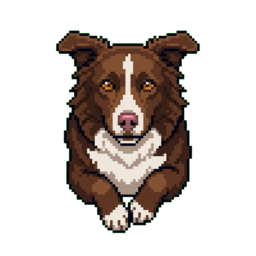
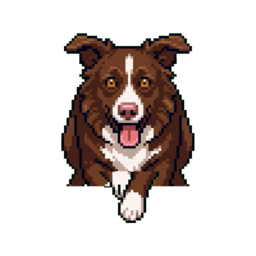
Zeppelin: 8-way running + diagonals, hearts reaction, idle-load; Tetris line-clear flash
- Zeppelin now runs in 8 directions (added NE/NW/SE/SW diagonals; left twins are flipped), and the toward-viewer frames are consistent (frame B generated as an edit of frame A so the face matches)
- Giving him a treat now shows a love-heart-eyes sprite
- Zeppelin is code-split and mounted on requestIdleCallback, and his sprite is fetchPriority=low, so he never blocks initial page load
- Tetris: completed lines now flash white before clearing (freeze → flash → remove)

Changed region(s): [[0.2188, 0.0938, 0.7812, 0.9375]]

diff --git a/components/os/apps/tetris-app.tsx b/components/os/apps/tetris-app.tsx
@@ -17,8 +17,8 @@ type Board = Cell[][];
 type Piece = { type: PieceType; m: Matrix; x: number; y: number };
 type Status = 'playing' | 'paused' | 'over';
 type Mode = 'normal' | 'angel' | 'evil';
-type Game = { board: Board; piece: Piece; next: PieceType; score: number; lines: number; level: number; status: Status; mode: Mode };
-type Action = 'left' | 'right' | 'rotate' | 'soft' | 'hard' | 'tick' | 'togglePause' | 'reset' | 'modeNormal' | 'modeAngel' | 'modeEvil';
+type Game = { board: Board; piece: Piece; next: PieceType; score: number; lines: number; level: number; status: Status; mode: Mode; clearing: number[] };
+type Action = 'left' | 'right' | 'rotate' | 'soft' | 'hard' | 'tick' | 'togglePause' | 'reset' | 'modeNormal' | 'modeAngel' | 'modeEvil' | 'finishClear';
 
 const SHAPES: Record<PieceType, Matrix> = {
   I: [[0, 0, 0, 0], [1, 1, 1, 1], [0, 0, 0, 0], [0, 0, 0, 0]],
@@ -70,6 +70,13 @@ function clearLines(board: Board): { board: Board; cleared: number } {
   const fresh = Array.from({ length: cleared }, () => Array<Cell>(COLS).fill(null));
   return { board: [...fresh, ...kept], cleared };
 }
+
+/** Indices of fully-filled rows — the ones about to clear (used for the flash). */
+const fullRows = (board: Board): number[] => {
+  const rows: number[] = [];
+  for (let r = 0; r < ROWS; r++) if (board[r].every((c) => c !== null)) rows.push(r);
+  return rows;
+};
 
 // ---- Evil / Angel piece selection ------------------------------------------
 // Rate a board for the player (higher = better): reward cleared lines, punish
@@ -142,25 +149,39 @@ function choosePiece(board: Board, mode: Mode): PieceType {
 function lock(g: Game): Game {
   const board = g.board.map((r) => r.slice());
   for (const [r, c] of cellsOf(g.piece.m, g.piece.x, g.piece.y)) if (r >= 0) board[r][c] = COLORS[g.piece.type];
-  const { board: cleared, cleared: n } = clearLines(board);
+  const rows = fullRows(board);
+  // If lines completed, freeze on them so they can flash; finishClear() then removes them.
+  if (rows.length > 0) return { ...g, board, clearing: rows };
+  const piece = spawn(g.next);
+  const over = collides(board, piece.m, piece.x, piece.y);
+  return { ...g, board, piece, next: choosePiece(board, g.mode), status: over ? 'over' : 'playing' };
+}
+
+function finishClear(g: Game): Game {
+  if (g.clearing.length === 0) return g;
+  const kept = g.board.filter((_, r) => !g.clearing.includes(r));
+  const n = g.clearing.length;
+  const fresh = Array.from({ length: n }, () => Array<Cell>(COLS).fill(null));
+  const board = [...fresh, ...kept];
   const lines = g.lines + n;
   const piece = spawn(g.next);
-  const over = collides(cleared, piece.m, piece.x, piece.y);
+  const over = collides(board, piece.m, piece.x, piece.y);
   return {
-    board: cleared,
+    ...g,
+    board,
     piece,
-    next: choosePiece(cleared, g.mode),
+    next: choosePiece(board, g.mode),
     score: g.score + LINE_SCORE[n] * g.level,
     lines,
     level: Math.floor(lines / 10) + 1,
     status: over ? 'over' : 'playing',
-    mode: g.mode,
+    clearing: [],
   };
 }
 
 function init(mode: Mode = 'normal'): Game {
   const board = emptyBoard();
-  return { board, piece: spawn(choosePiece(board, mode)), next: choosePiece(board, mode), score: 0, lines: 0, level: 1, status: 'playing', mode };
+  return { board, piece: spawn(choosePiece(board, mode)), next: choosePiece(board, mode), score: 0, lines: 0, level: 1, status: 'playing', mode, clearing: [] };
 }
 
 function step(g: Game, a: Action): Game {
@@ -168,12 +189,13 @@ function step(g: Game, a: Action): Game {
   if (a === 'modeNormal') return init('normal');
   if (a === 'modeAngel') return init('angel');
   if (a === 'modeEvil') return init('evil');
+  if (a === 'finishClear') return finishClear(g);
   if (a === 'togglePause') {
     if (g.status === 'playing') return { ...g, status: 'paused' };
     if (g.status === 'paused') return { ...g, status: 'playing' };
     return g;
   }
-  if (g.status !== 'playing') return g;
+  if (g.status !== 'playing' || g.clearing.length > 0) return g;
   const { board, piece } = g;
   const { m, x, y } = piece;
   switch (a) {
@@ -200,15 +222,16 @@ function step(g: Game, a: Action): Game {
   }
 }
 
-function Block({ color, size = CELL, ghost = false }: { color: string | null; size?: number; ghost?: boolean }) {
+function Block({ color, size = CELL, ghost = false, flash = false }: { color: string | null; size?: number; ghost?: boolean; flash?: boolean }) {
   return (
     <div
+      className={flash ? 'tetris-flash' : undefined}
       style={{
         width: size,
         height: size,
         borderRadius: 3,
-        background: ghost ? 'transparent' : (color ?? 'rgba(255,255,255,0.035)'),
-        boxShadow: color && !ghost ? 'inset 0 0 0 1px rgba(255,255,255,0.25), inset 1px 1px 2px rgba(255,255,255,0.4)' : undefined,
+        background: flash ? '#ffffff' : ghost ? 'transparent' : (color ?? 'rgba(255,255,255,0.035)'),
+        boxShadow: color && !ghost && !flash ? 'inset 0 0 0 1px rgba(255,255,255,0.25), inset 1px 1px 2px rgba(255,255,255,0.4)' : undefined,
         border: ghost && color ? `2px solid ${color}66` : undefined,
       }}
     />
@@ -235,11 +258,18 @@ export function TetrisApp({ win }: AppContentProps) {
 
   // Gravity — only runs while focused & playing, so it pauses when you switch windows.
   useEffect(() => {
-    if (g.status !== 'playing' || !focused) return;
+    if (g.status !== 'playing' || !focused || g.clearing.length > 0) return;
     const speed = Math.max(90, 800 - (g.level - 1) * 65);
     const id = setInterval(() => dispatch('tick'), speed);
     return () => clearInterval(id);
-  }, [g.status, g.level, focused]);
+  }, [g.status, g.level, focused, g.clearing.length]);
+
+  // Flash completed lines briefly, then remove them.
+  useEffect(() => {
+    if (g.clearing.length === 0) return;
+    const id = setTimeout(() => dispatch('finishClear'), 280);
+    return () => clearTimeout(id);
+  }, [g.clearing]);
 
   // Keyboard — active only while this window is focused.
   useEffect(() => {
@@ -270,13 +300,15 @@ export function TetrisApp({ win }: AppContentProps) {
   // Build the display grid: locked board + ghost + active piece.
   const view: Cell[][] = g.board.map((r) => r.slice());
   const ghostCells: [number, number][] = [];
-  if (g.status !== 'over') {
+  const settling = g.clearing.length > 0;
+  if (g.status !== 'over' && !settling) {
     let gy = g.piece.y;
     while (!collides(g.board, g.piece.m, g.piece.x, gy + 1)) gy++;
     for (const [r, c] of cellsOf(g.piece.m, g.piece.x, gy)) if (r >= 0 && !view[r][c]) ghostCells.push([r, c]);
   }
   const ghostSet = new Set(ghostCells.map(([r, c]) => r * COLS + c));
-  for (const [r, c] of cellsOf(g.piece.m, g.piece.x, g.piece.y)) if (r >= 0) view[r][c] = COLORS[g.piece.type];
+  if (!settling) for (const [r, c] of cellsOf(g.piece.m, g.piece.x, g.piece.y)) if (r >= 0) view[r][c] = COLORS[g.piece.type];
+  const clearingSet = new Set(g.clearing);
 
   const overlay =
     g.status === 'over'
@@ -297,7 +329,7 @@ export function TetrisApp({ win }: AppContentProps) {
               const isGhost = !color && ghostSet.has(r * COLS + c);
               return (
                 <div key={`${r}-${c}`} className='p-px'>
-                  <Block color={isGhost ? COLORS[g.piece.type] : color} ghost={isGhost} />
+                  <Block color={isGhost ? COLORS[g.piece.type] : color} ghost={isGhost} flash={clearingSet.has(r)} />
                 </div>
               );
             }),

diff --git a/components/os/zeppelin.tsx b/components/os/zeppelin.tsx
@@ -4,8 +4,8 @@ import { MENUBAR_H } from '@/lib/os/constants';
 import { cn } from '@/lib/utils';
 import { useCallback, useEffect, useRef, useState } from 'react';
 
-type Mode = 'enter' | 'idle' | 'running' | 'chat' | 'sleeping' | 'following' | 'shake' | 'excited';
-type Dir = 'side' | 'front' | 'back';
+type Mode = 'enter' | 'idle' | 'running' | 'chat' | 'sleeping' | 'following' | 'shake' | 'excited' | 'loved';
+type Dir = 'side' | 'front' | 'back' | 'se' | 'ne';
 type Msg = { from: 'you' | 'zep'; text: string };
 
 const S = {
@@ -16,9 +16,14 @@ const S = {
   frontB: '/zeppelin/front-b.png',
   backA: '/zeppelin/back-a.png',
   backB: '/zeppelin/back-b.png',
+  seA: '/zeppelin/se-a.png',
+  seB: '/zeppelin/se-b.png',
+  neA: '/zeppelin/ne-a.png',
+  neB: '/zeppelin/ne-b.png',
   happy: '/zeppelin/happy.png',
   shake: '/zeppelin/shake.png',
   excited: '/zeppelin/excited.png',
+  loved: '/zeppelin/loved.png',
   sleep: '/zeppelin/sleep.png',
 };
 const SIZE = 104;
@@ -67,13 +72,33 @@ export function Zeppelin() {
     };
   }, []);
 
+  // Pick one of 8 directions (E/SE/S/SW/W/NW/N/NE). Right-facing sets flip for their left twins.
   const aimSprite = (dx: number, dy: number) => {
-    if (Math.abs(dx) > Math.abs(dy)) {
-      setDir('side');
-      setFacing(dx < 0 ? -1 : 1);
+    const deg = ((Math.atan2(dy, dx) * 180) / Math.PI + 360) % 360; // 0=E, 90=S(down), 270=N(up)
+    let set: Dir = 'side';
+    let fl = 1;
+    if (deg >= 337.5 || deg < 22.5) {
+      set = 'side'; // E
+    } else if (deg < 67.5) {
+      set = 'se'; // SE
+    } else if (deg < 112.5) {
+      set = 'front'; // S
+    } else if (deg < 157.5) {
+      set = 'se';
+      fl = -1; // SW
+    } else if (deg < 202.5) {
+      set = 'side';
+      fl = -1; // W
+    } else if (deg < 247.5) {
+      set = 'ne';
+      fl = -1; // NW
+    } else if (deg < 292.5) {
+      set = 'back'; // N
     } else {
-      setDir(dy > 0 ? 'front' : 'back');
+      set = 'ne'; // NE
     }
+    setDir(set);
+    setFacing(fl);
   };
 
   // Idle behaviour: scamper somewhere, or have a little thought. (Off while a treat is out.)
@@ -167,22 +192,31 @@ export function Zeppelin() {
   const sprite = (() => {
     if (mode === 'sleeping') return S.sleep;
     if (mode === 'shake') return S.shake;
+    if (mode === 'loved') return S.loved;
     if (mode === 'excited') return S.excited;
     if (mode === 'chat' || mode === 'enter') return S.happy;
     if (mode === 'running' || mode === 'following') {
-      const set = dir === 'front' ? [S.frontA, S.frontB] : dir === 'back' ? [S.backA, S.backB] : [S.runA, S.runB];
+      const sets: Record<Dir, [string, string]> = {
+        side: [S.runA, S.runB],
+        front: [S.frontA, S.frontB],
+        back: [S.backA, S.backB],
+        se: [S.seA, S.seB],
+        ne: [S.neA, S.neB],
+      };
+      const set = sets[dir];
       return frame ? set[1] : set[0];
     }
     return S.sit;
   })();
-  const flip = (mode === 'running' || mode === 'following') && dir === 'side' ? facing : 1;
+  const flip = mode === 'running' || mode === 'following' ? facing : 1;
 
   const giveTreat = () => {
     setTreat(false);
-    setMode('excited');
     setBubble('woof woof! 🦴❤️');
-    setTimeout(() => setBubble(null), 1800);
-    setTimeout(() => setMode('idle'), 1600);
+    setMode('excited');
+    setTimeout(() => setMode('loved'), 550);
+    setTimeout(() => setBubble(null), 2300);
+    setTimeout(() => setMode('idle'), 2300);
   };
 
   const startTreat = () => {
@@ -317,6 +351,7 @@ export function Zeppelin() {
             width={SIZE}
             height={SIZE}
             draggable={false}
+            fetchPriority='low'
             style={{ transform: `scaleX(${flip})`, imageRendering: 'pixelated' }}
             className='h-full w-full object-contain drop-shadow-[0_5px_3px_rgba(0,0,0,0.28)]'
           />

diff --git a/components/os/desktop.tsx b/components/os/desktop.tsx
@@ -5,13 +5,17 @@ import { type Wallpaper, usePrefs, wallpaperClass } from '@/lib/os/prefs';
 import { parseRoute, pathForWindow } from '@/lib/os/routes';
 import { useWindowStore } from '@/lib/os/store';
 import { cn } from '@/lib/utils';
+import dynamic from 'next/dynamic';
 import { useTheme } from 'next-themes';
 import { useEffect, useState } from 'react';
 import { DesktopIcons } from './desktop-icons';
 import { Dock } from './dock';
 import { MenuBar } from './menu-bar';
 import { WindowManager } from './window-manager';
-import { Zeppelin } from './zeppelin';
+
+// Code-split, and only mounted once the browser is idle — so neither Zeppelin's
+// component code nor his sprite images compete with the initial page load.
+const Zeppelin = dynamic(() => import('./zeppelin').then((m) => m.Zeppelin), { ssr: false });
 
 export function Desktop({ initialPath }: { initialPath?: string[] }) {
   const mounted = useMounted();
@@ -24,6 +28,7 @@ export function Desktop({ initialPath }: { initialPath?: string[] }) {
   const fullscreenId = useWindowStore((s) => s.fullscreenId);
   const windows = useWindowStore((s) => s.windows);
   const [ready, setReady] = useState(false);
+  const [companionReady, setCompanionReady] = useState(false);
 
   // Once hydrated: open the initial window (Welcome, or a deep-link), then fade the loader.
   useEffect(() => {
@@ -41,6 +46,17 @@ export function Desktop({ initialPath }: { initialPath?: string[] }) {
     const id = setTimeout(() => setReady(true), 250);
     return () => clearTimeout(id);
   }, [mounted, openApp, initialPath]);
+
+  // Bring Zeppelin in only when the browser is idle, so he never blocks first load.
+  useEffect(() => {
+    if (!mounted || isMobile) return;
+    if (typeof window.requestIdleCallback === 'function') {
+      const id = window.requestIdleCallback(() => setCompanionReady(true), { timeout: 4000 });
+      return () => window.cancelIdleCallback(id);
+    }
+    const id = window.setTimeout(() => setCompanionReady(true), 1800);
+    return () => clearTimeout(id);
+  }, [mounted, isMobile]);
 
   // Keep the address bar in sync with the focused window (+ ?view=full when fullscreen).
   useEffect(() => {
@@ -77,7 +93,7 @@ export function Desktop({ initialPath }: { initialPath?: string[] }) {
       <WindowManager />
       <MenuBar />
       <Dock />
-      {mounted && !isMobile ? <Zeppelin /> : null}
+      {companionReady && !isMobile ? <Zeppelin /> : null}
 
       {/* Real loading spinner — server-rendered + pure CSS, so it paints on first paint
           (before the JS bundle hydrates) and fades once the OS has mounted and opened. */}

diff --git a/styles.css b/styles.css
@@ -414,6 +414,13 @@
 }
 .zep-treat { animation: zep-treat 0.85s ease-in-out infinite; }
 
+/* Tetris line-clear flash */
+@keyframes tetris-flash {
+  0%, 100% { opacity: 1; }
+  50% { opacity: 0.1; }
+}
+.tetris-flash { animation: tetris-flash 0.14s steps(1, end) 2; }
+
 /* ───────────────────────── Prose (blog reader) ───────────────────────── */
 .prose-eddie {
   --tw-prose-body: var(--foreground);